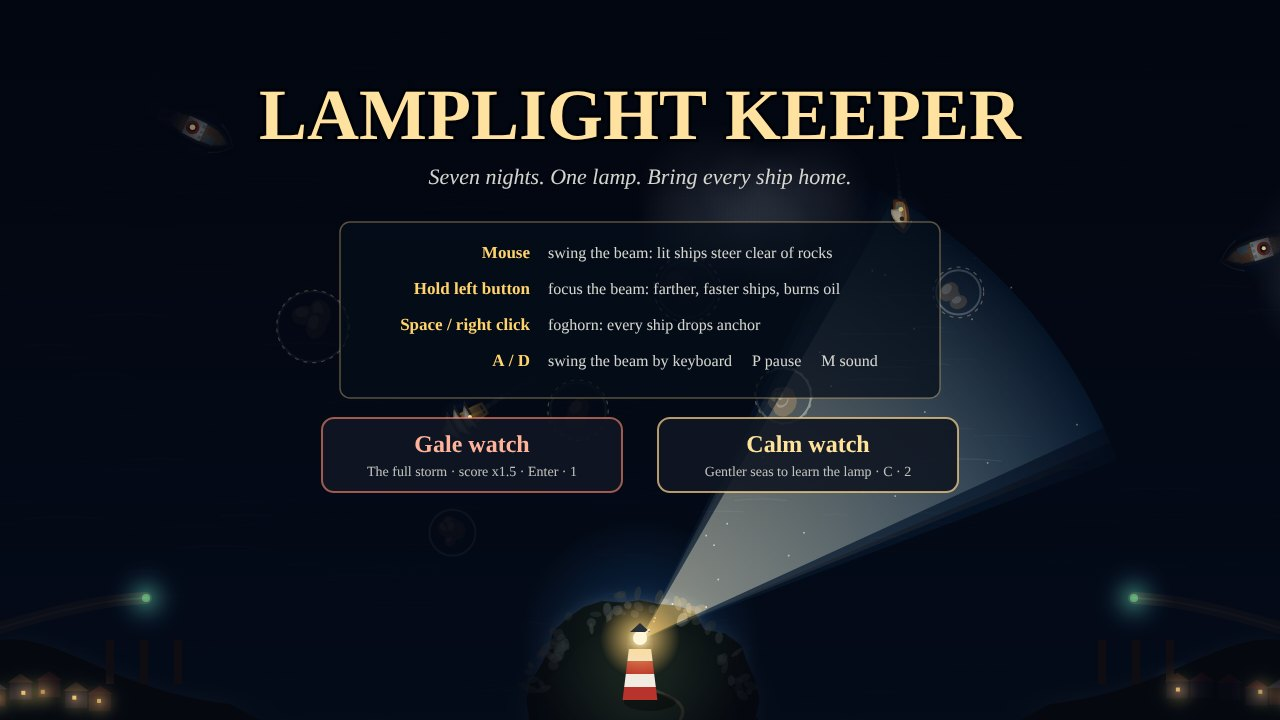
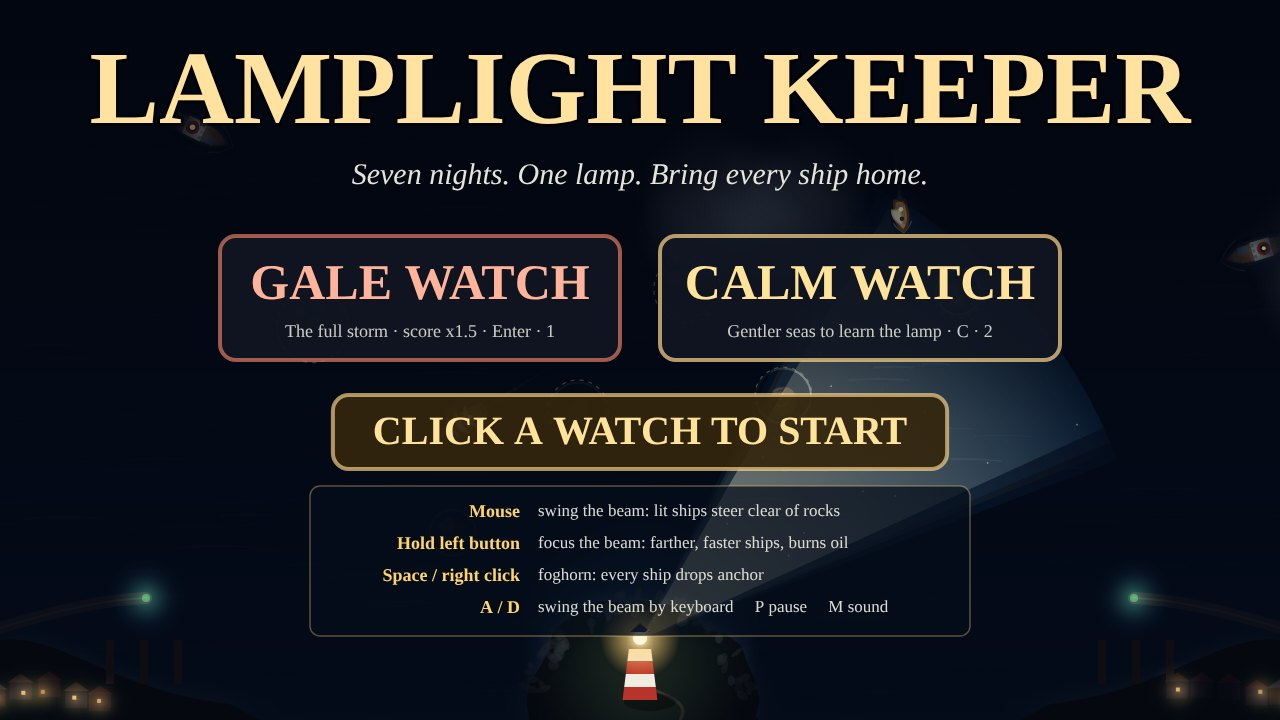
Title, upgrade and end screens that read at thumbnail size
Bigger titles, large mode buttons with a start plate, larger upgrade cards
and icons, and an end card built around the final score and a play-again
plate. New screenshots of the three screens.

Claude-Session: https://claude.ai/code/session_013JWUDFtXSFyga1ze7fr88q

Changed region(s): [[0.0625, 0.0611, 0.9375, 0.8861], [0.9688, 0.3361, 1.0, 0.3667], [0.8125, 0.3361, 0.8438, 0.3667]]

diff --git a/game/src/screens.js b/game/src/screens.js
@@ -34,27 +34,72 @@
     line(ctx, words, y, 22, `rgba(255, 227, 154, ${a})`, 'bold');
   }
 
+  /** A large call-to-action plate: what to click, readable even on a thumbnail. */
+  function plate(ctx, words, y, size, time) {
+    ctx.font = `bold ${size}px ${SERIF}`;
+    const w = ctx.measureText(words).width + 80;
+    const h = size + 34;
+    const pulse = 0.5 + 0.5 * Math.sin(time * 3);
+    ctx.fillStyle = 'rgba(52, 38, 14, 0.92)';
+    ctx.strokeStyle = `rgba(255, 214, 140, ${0.65 + 0.35 * pulse})`;
+    ctx.lineWidth = 4;
+    ctx.beginPath();
+    ctx.roundRect(LK.VIEW.width / 2 - w / 2, y - h / 2, w, h, 16);
+    ctx.fill();
+    ctx.stroke();
+    ctx.textAlign = 'center';
+    ctx.textBaseline = 'middle';
+    ctx.fillStyle = '#ffe39a';
+    ctx.fillText(words, LK.VIEW.width / 2, y + 2);
+  }
+
   /** The two mode buttons under the title; main.js tests clicks against these. */
   function titleButtons() {
-    const w = 300;
-    const h = 74;
+    const w = 400;
+    const h = 124;
     const cx = LK.VIEW.width / 2;
     return [
-      { mode: 'gale', x: cx - w - 18, y: 418, w, h, label: 'Gale watch', sub: 'The full storm · score x1.5 · Enter · 1' },
-      { mode: 'normal', x: cx + 18, y: 418, w, h, label: 'Calm watch', sub: 'Gentler seas to learn the lamp · C · 2' },
+      { mode: 'gale', x: cx - w - 20, y: 236, w, h, label: 'GALE WATCH', sub: 'The full storm · score x1.5 · Enter · 1' },
+      { mode: 'normal', x: cx + 20, y: 236, w, h, label: 'CALM WATCH', sub: 'Gentler seas to learn the lamp · C · 2' },
     ];
   }
 
   function drawTitle(ctx, time, bests, hover) {
     const w = LK.VIEW.width;
-    const g = ctx.createLinearGradient(0, 0, 0, 300);
-    g.addColorStop(0, 'rgba(2, 6, 16, 0.75)');
+    const g = ctx.createLinearGradient(0, 0, 0, 420);
+    g.addColorStop(0, 'rgba(2, 6, 16, 0.8)');
     g.addColorStop(1, 'rgba(2, 6, 16, 0)');
     ctx.fillStyle = g;
-    ctx.fillRect(0, 0, w, 300);
-    title(ctx, 'LAMPLIGHT KEEPER', 120, 72, '#ffe2a0');
-    line(ctx, 'Seven nights. One lamp. Bring every ship home.', 178, 22, 'rgba(235, 235, 225, 0.9)', 'italic');
-    LK.hudPanel(ctx, w / 2 - 300, 222, 600, 176);
+    ctx.fillRect(0, 0, w, 420);
+    title(ctx, 'LAMPLIGHT KEEPER', 96, 104, '#ffe2a0');
+    line(ctx, 'Seven nights. One lamp. Bring every ship home.', 176, 30, 'rgba(240, 240, 230, 0.95)', 'italic');
+    titleButtons().forEach((b, i) => {
+      const on = hover === i;
+      const pulse = 0.5 + 0.5 * Math.sin(time * 3 + i * 1.5);
+      ctx.fillStyle = on ? 'rgba(60, 46, 24, 0.95)' : 'rgba(16, 22, 34, 0.92)';
+      ctx.strokeStyle = b.mode === 'gale' ? `rgba(255, 140, 110, ${0.6 + 0.4 * pulse})` : `rgba(255, 214, 140, ${0.6 + 0.4 * pulse})`;
+      ctx.lineWidth = on ? 5 : 4;
+      ctx.beginPath();
+      ctx.roundRect(b.x, b.y, b.w, b.h, 16);
+      ctx.fill();
+      ctx.stroke();
+      ctx.textAlign = 'center';
+      ctx.textBaseline = 'middle';
+      ctx.font = `bold 50px ${SERIF}`;
+      ctx.fillStyle = b.mode === 'gale' ? '#ffb39a' : '#ffe39a';
+      ctx.fillText(b.label, b.x + b.w / 2, b.y + 50);
+      ctx.font = `18px ${SERIF}`;
+      ctx.fillStyle = 'rgba(235, 235, 225, 0.85)';
+      ctx.fillText(b.sub, b.x + b.w / 2, b.y + 96);
+      const best = bests[b.mode] || 0;
+      if (best > 0) {
+        ctx.font = `bold 20px ${SERIF}`;
+        ctx.fillStyle = 'rgba(255, 227, 154, 0.9)';
+        ctx.fillText(`Best ${best.toLocaleString('en-US')}`, b.x + b.w / 2, b.y + b.h + 22);
+      }
+    });
+    plate(ctx, 'CLICK A WATCH TO START', 432, 40, time);
+    LK.hudPanel(ctx, w / 2 - 330, 486, 660, 150);
     const rows = [
       ['Mouse', 'swing the beam: lit ships steer clear of rocks'],
       ['Hold left button', 'focus the beam: farther, faster ships, burns oil'],
@@ -62,40 +107,16 @@
       ['A / D', 'swing the beam by keyboard     P pause     M sound'],
     ];
     rows.forEach(([key, text], i) => {
-      const y = 254 + i * 36;
+      const y = 512 + i * 32;
       ctx.textAlign = 'right';
-      ctx.font = `bold 17px ${SERIF}`;
-      ctx.fillStyle = '#ffd36b';
-      ctx.fillText(key, w / 2 - 110, y);
-      ctx.textAlign = 'left';
-      ctx.font = `16px ${SERIF}`;
-      ctx.fillStyle = 'rgba(235, 235, 225, 0.9)';
-      ctx.fillText(text, w / 2 - 92, y);
-    });
-    titleButtons().forEach((b, i) => {
-      const on = hover === i;
-      const pulse = 0.5 + 0.5 * Math.sin(time * 3 + i * 1.5);
-      ctx.fillStyle = on ? 'rgba(60, 46, 24, 0.95)' : 'rgba(16, 22, 34, 0.9)';
-      ctx.strokeStyle = b.mode === 'gale' ? `rgba(255, 140, 110, ${0.6 + 0.4 * pulse})` : `rgba(255, 214, 140, ${0.6 + 0.4 * pulse})`;
-      ctx.lineWidth = on ? 3 : 2;
-      ctx.beginPath();
-      ctx.roundRect(b.x, b.y, b.w, b.h, 12);
-      ctx.fill();
-      ctx.stroke();
-      ctx.textAlign = 'center';
       ctx.textBaseline = 'middle';
-      ctx.font = `bold 24px ${SERIF}`;
-      ctx.fillStyle = b.mode === 'gale' ? '#ffb39a' : '#ffe39a';
-      ctx.fillText(b.label, b.x + b.w / 2, b.y + 28);
-      ctx.font = `14px ${SERIF}`;
-      ctx.fillStyle = 'rgba(235, 235, 225, 0.8)';
-      ctx.fillText(b.sub, b.x + b.w / 2, b.y + 54);
-      const best = bests[b.mode] || 0;
-      if (best > 0) {
-        ctx.font = `15px ${SERIF}`;
-        ctx.fillStyle = 'rgba(235, 235, 225, 0.7)';
-        ctx.fillText(`Best ${best.toLocaleString('en-US')}`, b.x + b.w / 2, b.y + b.h + 18);
-      }
+      ctx.font = `bold 18px ${SERIF}`;
+      ctx.fillStyle = '#ffd36b';
+      ctx.fillText(key, w / 2 - 120, y);
+      ctx.textAlign = 'left';
+      ctx.font = `17px ${SERIF}`;
+      ctx.fillStyle = 'rgba(235, 235, 225, 0.92)';
+      ctx.fillText(text, w / 2 - 102, y);
     });
   }
 
@@ -133,16 +154,17 @@
 
   /** Where the three upgrade cards sit; main.js tests clicks against these. */
   function cardRects() {
-    const w = 300;
-    const h = 250;
+    const w = 350;
+    const h = 350;
     const gap = 36;
     const left = LK.VIEW.width / 2 - (w * 3 + gap * 2) / 2;
-    return [0, 1, 2].map((i) => ({ x: left + i * (w + gap), y: 250, w, h }));
+    return [0, 1, 2].map((i) => ({ x: left + i * (w + gap), y: 206, w, h }));
   }
 
-  function drawIcon(ctx, icon, x, y) {
+  function drawIcon(ctx, icon, x, y, scale) {
     ctx.save();
     ctx.translate(x, y);
+    ctx.scale(scale || 1, scale || 1);
     ctx.strokeStyle = '#ffd36b';
     ctx.fillStyle = '#ffd36b';
     ctx.lineWidth = 3;
@@ -250,36 +272,36 @@
   }
 
   function drawUpgradeChoice(ctx, run, offer, hover, time) {
-    veil(ctx, 0.6);
-    title(ctx, 'The lamp room: choose one improvement', 150, 40, '#ffe2a0');
-    line(ctx, `Night ${run.nightIndex + 1} comes next: ${LK.NIGHTS[run.nightIndex].name}`, 200, 19, 'rgba(235, 235, 225, 0.85)', 'italic');
+    veil(ctx, 0.66);
+    title(ctx, 'CHOOSE AN UPGRADE', 78, 76, '#ffe2a0');
+    line(ctx, `The lamp room, before night ${run.nightIndex + 1}: ${LK.NIGHTS[run.nightIndex].name}`, 150, 26, 'rgba(240, 240, 230, 0.92)', 'italic');
     cardRects().forEach((rect, i) => {
       const id = offer[i];
       if (!id) return;
       const up = LK.upgradeById(id);
       const lift = hover === i ? -8 : 0;
-      ctx.fillStyle = hover === i ? 'rgba(40, 52, 70, 0.95)' : 'rgba(16, 26, 42, 0.92)';
-      ctx.strokeStyle = hover === i ? '#ffd36b' : 'rgba(255, 214, 140, 0.4)';
-      ctx.lineWidth = hover === i ? 3 : 1.5;
+      ctx.fillStyle = hover === i ? 'rgba(44, 56, 76, 0.97)' : 'rgba(16, 26, 42, 0.94)';
+      ctx.strokeStyle = hover === i ? '#ffd36b' : 'rgba(255, 214, 140, 0.55)';
+      ctx.lineWidth = hover === i ? 5 : 3;
       ctx.beginPath();
-      ctx.roundRect(rect.x, rect.y + lift, rect.w, rect.h, 14);
+      ctx.roundRect(rect.x, rect.y + lift, rect.w, rect.h, 18);
       ctx.fill();
       ctx.stroke();
-      drawIcon(ctx, up.icon, rect.x + rect.w / 2, rect.y + 60 + lift);
+      drawIcon(ctx, up.icon, rect.x + rect.w / 2, rect.y + 86 + lift, 2.6);
       ctx.textAlign = 'center';
       ctx.textBaseline = 'middle';
       ctx.fillStyle = '#fff3d6';
-      ctx.font = `bold 24px ${SERIF}`;
-      ctx.fillText(up.name, rect.x + rect.w / 2, rect.y + 118 + lift);
-      ctx.fillStyle = 'rgba(235, 235, 225, 0.85)';
-      ctx.font = `17px ${SERIF}`;
-      wrapText(ctx, up.text, rect.x + rect.w / 2, rect.y + 158 + lift, rect.w - 40, 24);
+      ctx.font = `bold 36px ${SERIF}`;
+      ctx.fillText(up.name, rect.x + rect.w / 2, rect.y + 182 + lift);
+      ctx.fillStyle = 'rgba(235, 235, 225, 0.9)';
+      ctx.font = `19px ${SERIF}`;
+      wrapText(ctx, up.text, rect.x + rect.w / 2, rect.y + 228 + lift, rect.w - 44, 26);
       const owned = run.upgrades[id] || 0;
-      ctx.fillStyle = 'rgba(255, 214, 140, 0.7)';
-      ctx.font = `14px ${SERIF}`;
-      ctx.fillText(`${owned ? `Owned ${owned} / ${up.max}   ·   ` : ''}Press ${i + 1}`, rect.x + rect.w / 2, rect.y + rect.h - 24 + lift);
+      ctx.fillStyle = '#ffd36b';
+      ctx.font = `bold 20px ${SERIF}`;
+      ctx.fillText(`${owned ? `Owned ${owned} / ${up.max}   ·   ` : ''}Click or press ${i + 1}`, rect.x + rect.w / 2, rect.y + rect.h - 28 + lift);
     });
-    line(ctx, `Trust ${run.trust} / ${run.maxTrust}     Score ${run.score.toLocaleString('en-US')}`, 560, 18, 'rgba(235, 235, 225, 0.75)');
+    line(ctx, `Trust ${run.trust} / ${run.maxTrust}        Score ${run.score.toLocaleString('en-US')}`, 618, 34, '#ffd36b', 'bold');
     void time;
   }
 
@@ -293,14 +315,21 @@
     ];
   }
 
+  /** The end card both endings share: the big score, the run's numbers, and how to play again. */
+  function endCard(ctx, run, best, time, again) {
+    line(ctx, 'FINAL SCORE', 232, 34, 'rgba(255, 227, 154, 0.95)', 'bold');
+    title(ctx, run.score.toLocaleString('en-US'), 318, 124, '#ffd36b');
+    statRows(run).forEach((r, i) => line(ctx, r, 400 + i * 29, 19, 'rgba(244, 244, 234, 0.94)'));
+    line(ctx, `${run.score >= best && run.score > 0 ? 'A new best watch!' : `Best watch: ${best.toLocaleString('en-US')}`}   ·   ${modeLine(run)}`, 524, 22, 'rgba(255, 227, 154, 0.92)', 'bold');
+    plate(ctx, again, 596, 40, time);
+    line(ctx, 'click or press R   ·   T for the title', 650, 19, 'rgba(235, 235, 225, 0.85)');
+  }
+
   function drawGameOver(ctx, run, best, time) {
-    veil(ctx, 0.72);
-    title(ctx, 'THE LAMP GOES DARK', 160, 64, '#ff9c8a');
-    line(ctx, `The harbour lost its trust on night ${run.nightIndex + 1}: ${LK.NIGHTS[run.nightIndex].name}`, 220, 20, 'rgba(235, 235, 225, 0.9)', 'italic');
-    statRows(run).forEach((r, i) => line(ctx, r, 290 + i * 34, 20, 'rgba(240, 240, 230, 0.92)'));
-    line(ctx, `Final score ${run.score.toLocaleString('en-US')}`, 450, 34, '#ffd36b', 'bold');
-    line(ctx, `${run.score >= best && run.score > 0 ? 'A new best watch!' : `Best watch: ${best.toLocaleString('en-US')}`}   ·   ${modeLine(run)}`, 494, 18, 'rgba(235, 235, 225, 0.8)');
-    prompt(ctx, 'Click or press R to keep watch again   ·   T for the title', 580, time);
+    veil(ctx, 0.74);
+    title(ctx, 'THE LAMP GOES DARK', 84, 84, '#ff9c8a');
+    line(ctx, `The harbour lost its trust on night ${run.nightIndex + 1}: ${LK.NIGHTS[run.nightIndex].name}`, 160, 24, 'rgba(240, 240, 230, 0.92)', 'italic');
+    endCard(ctx, run, best, time, 'KEEP WATCH AGAIN');
   }
 
   function modeLine(run) {
@@ -314,12 +343,9 @@
     g.addColorStop(1, 'rgba(2, 6, 16, 0.75)');
     ctx.fillStyle = g;
     ctx.fillRect(0, 0, LK.VIEW.width, LK.VIEW.height);
-    title(ctx, 'THE SEASON IS SAFE', 160, 64, '#ffe2a0');
-    line(ctx, 'Seven nights kept. The first light of spring reaches the bay.', 220, 21, 'rgba(250, 240, 225, 0.95)', 'italic');
-    statRows(run).forEach((r, i) => line(ctx, r, 290 + i * 34, 20, 'rgba(250, 245, 235, 0.95)'));
-    line(ctx, `Final score ${run.score.toLocaleString('en-US')}`, 450, 34, '#ffd36b', 'bold');
-    line(ctx, `${run.score >= best ? 'A new best watch!' : `Best watch: ${best.toLocaleString('en-US')}`}   ·   ${modeLine(run)}`, 494, 18, 'rgba(250, 240, 225, 0.85)');
-    prompt(ctx, 'Click or press R to begin a new season   ·   T for the title', 580, time);
+    title(ctx, 'THE SEASON IS SAFE', 84, 84, '#ffe2a0');
+    line(ctx, 'Seven nights kept. The first light of spring reaches the bay.', 160, 24, 'rgba(250, 240, 225, 0.96)', 'italic');
+    endCard(ctx, run, best, time, 'BEGIN A NEW SEASON');
   }
 
   function drawPause(ctx) {
